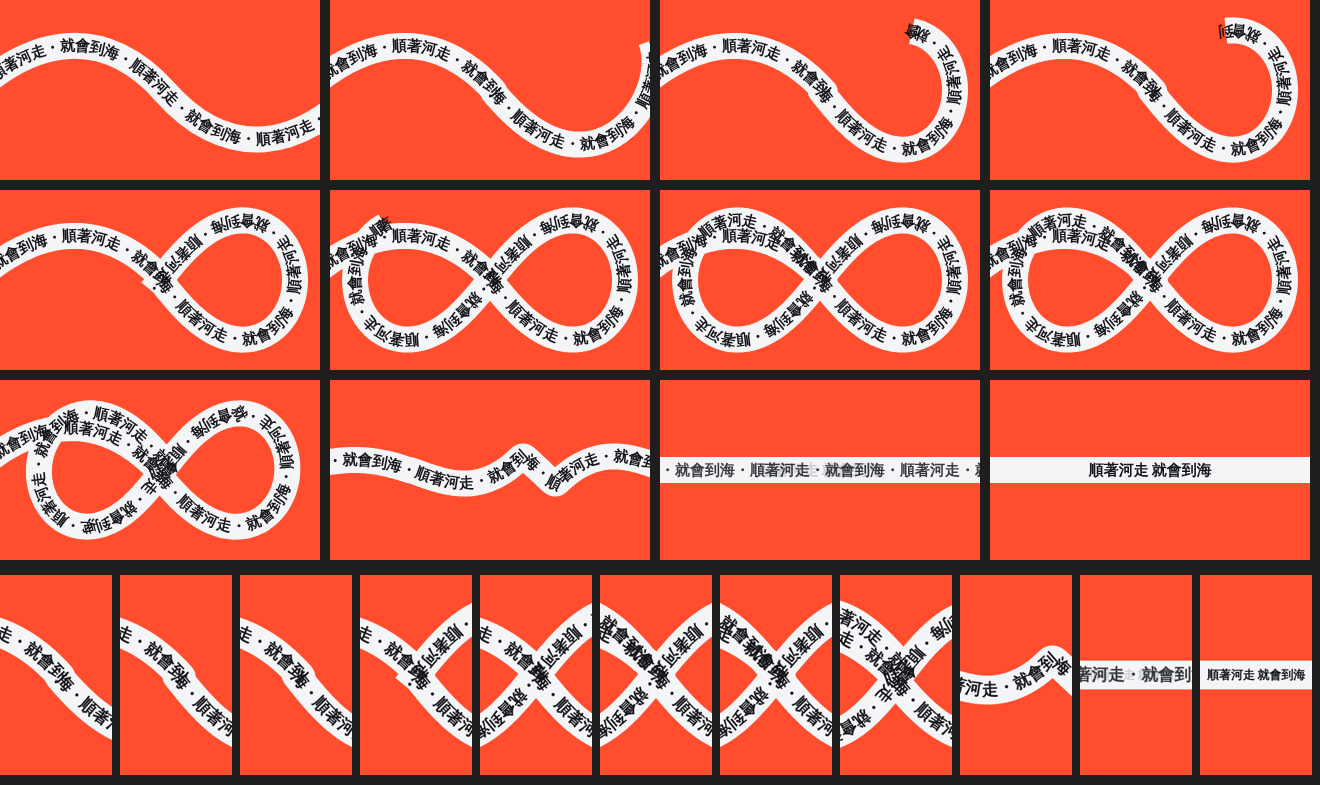
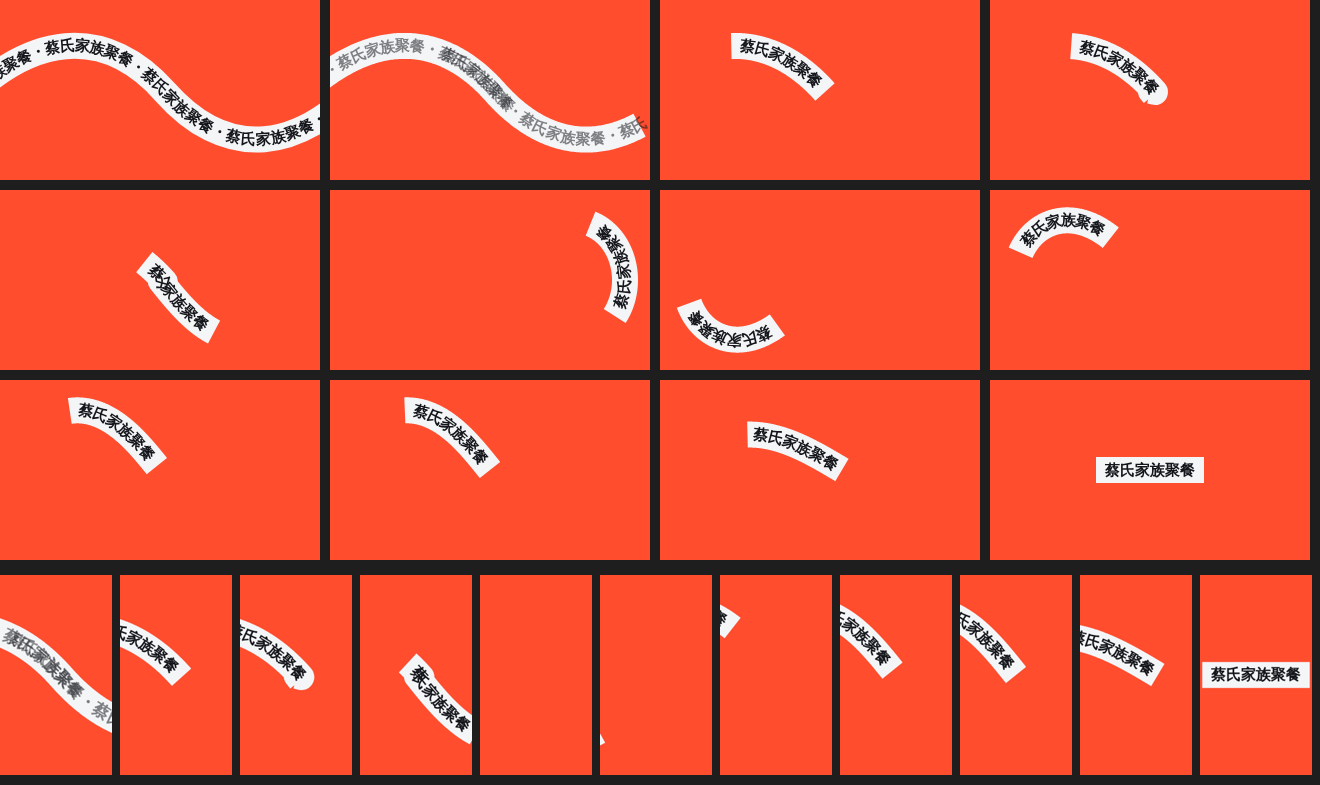
彎道收尾：字句長的白帶沿 ∞ 路線跑一圈，最後轉平成橫條
Claude-Session: https://claude.ai/code/session_019agY7otd5feanTroznJ55n

diff --git a/src/engine/kinetic/fx/flow.ts b/src/engine/kinetic/fx/flow.ts
@@ -51,14 +51,6 @@ function ribAtIn(pts: RibPt[], d: number): RibPt {
   return { x: a.x + (b.x - a.x) * f, y: a.y + (b.y - a.y) * f, a: a.a + (b.a - a.a) * f, s: d };
 }
 
-/** 把一串點重新取樣成 n 個、沿路徑等距（0～1 對應整條帶子），拿來在兩條形狀之間內插 */
-function resample(pts: RibPt[], n: number): { x: number; y: number }[] {
-  const total = pts[pts.length - 1]!.s;
-  return Array.from({ length: n }, (_, i) => {
-    const p = ribAtIn(pts, (total * i) / (n - 1));
-    return { x: p.x, y: p.y };
-  });
-}
 /** 一串 xy 點 → 帶有累計長度與切線角的路徑點 */
 function toRibPts(xy: { x: number; y: number }[]): RibPt[] {
   let acc = 0;
@@ -74,12 +66,8 @@ const RIB_N = 240;
 /** 彎道收尾的 ∞ 半寬 */
 const INF_A = 135;
 let lemPts: RibPt[] | null = null;
-/**
- * 彎道收尾時帶子的頭走的路線（∞）：從中間的交叉點往右下出發（接著 S 形帶子中間的方向），
- * 繞右圈 → 回到中間交叉 → 繞左圈 → 回到中間
- */
-function lemniscate(): RibPt[] {
-  if (lemPts) return lemPts;
+/** ∞ 路線：從中間的交叉點往右下出發（接著 S 形帶子中間的方向），繞右圈 → 回到中間交叉 → 繞左圈 → 回到中間 */
+function lemniscateXY(): { x: number; y: number }[] {
   const xy: { x: number; y: number }[] = [];
   const N = 720;
   for (let i = 0; i <= N; i++) {
@@ -90,8 +78,15 @@ function lemniscate(): RibPt[] {
       y: 90 + (INF_A * 1.25 * Math.sin(th) * Math.cos(th)) / d,
     });
   }
-  lemPts = toRibPts(xy);
-  return lemPts;
+  return xy;
+}
+/** 彎道收尾的路線：S 形帶子的前半段（到畫面正中間）＋ ∞ 一圈；回傳路線與「畫面正中間」在路線上的位置 */
+function route(): { pts: RibPt[]; mid: number } {
+  if (!lemPts) {
+    const sp = ribSamples();
+    lemPts = toRibPts([...sp.slice(0, 121).map((p) => ({ x: p.x, y: p.y })), ...lemniscateXY().slice(1)]);
+  }
+  return { pts: lemPts, mid: ribSamples()[120]!.s };
 }
 /** 路線上 [a, b] 那一段，取 n 個點 */
 function along(pts: RibPt[], a: number, b: number, n = RIB_N): { x: number; y: number }[] {
@@ -100,30 +95,24 @@ function along(pts: RibPt[], a: number, b: number, n = RIB_N): { x: number; y: n
     return { x: p.x, y: p.y };
   });
 }
-/** 拉直後的橫條：畫面正中間、兩端超出畫面 */
-function lineXY(): { x: number; y: number }[] {
-  return Array.from({ length: RIB_N }, (_, i) => ({ x: -60 + (450 * i) / (RIB_N - 1), y: 90 }));
-}
 const mixXY = (a: { x: number; y: number }[], b: { x: number; y: number }[], f: number) =>
   a.map((p, i) => ({ x: p.x + (b[i]!.x - p.x) * f, y: p.y + (b[i]!.y - p.y) * f }));
 /**
- * 停在最後畫面（q 0→1）：S 形帶子的前半段不動，後半段從畫面中間轉進 ∞ 的路線，
- * 帶子的頭沿著 ∞ 繞一大圈（右圈、左圈）回到中間；最後整條往兩邊一拉，拉直成畫面中間的橫條
+ * 停在最後畫面（q 0→1）：長長的 S 形帶子兩端往中間收，縮成跟字句一樣長的一條白帶；
+ * 這條白帶沿著 ∞ 的路線跑一圈（繞右圈、交叉、繞左圈）回到中間，最後轉平成畫面正中間的橫條。
+ * L＝白帶長度（字句長度＋左右留白）
  */
-function ribbonAt(q: number): RibPt[] {
+function ribbonAt(q: number, L: number): RibPt[] {
   const sp = ribSamples();
-  const mid = sp[120]!.s; // S 形兩段曲線的接點＝畫面正中間
   const sTotal = sp[sp.length - 1]!.s;
-  const lem = lemniscate();
-  const lemLen = lem[lem.length - 1]!.s;
-  const L2 = sTotal - mid;
-  const head = L2 + (lemLen - L2) * E.io(clamp((q - 0.1) / 0.5));
-  const first = along(sp, 0, mid, 100);
-  const bend = E.io(clamp(q / 0.1));
-  const rest =
-    bend < 1 ? mixXY(along(sp, mid, sTotal, 120), along(lem, 0, L2, 120), bend) : along(lem, 0, head, 120);
-  const whole = resample(toRibPts([...first, ...rest]), RIB_N);
-  return toRibPts(mixXY(whole, lineXY(), E.io(clamp((q - 0.64) / 0.26))));
+  const { pts, mid } = route();
+  const lemLen = pts[pts.length - 1]!.s - mid;
+  const shrink = E.io(clamp(q / 0.15));
+  if (shrink < 1) return toRibPts(along(sp, (mid - L) * shrink, sTotal + (mid - sTotal) * shrink));
+  const head = mid + lemLen * E.io(clamp((q - 0.15) / 0.68));
+  const snake = along(pts, head - L, head);
+  const flat = Array.from({ length: RIB_N }, (_, i) => ({ x: 160 - L / 2 + (L * i) / (RIB_N - 1), y: 90 }));
+  return toRibPts(mixXY(snake, flat, E.io(clamp((q - 0.85) / 0.15))));
 }
 
 export const FX_FLOW: KineticDef[] = [
@@ -311,14 +300,21 @@ export const FX_FLOW: KineticDef[] = [
       const ox = (W - 320 * k) / 2;
       const oy = (H - 180 * k) / 2;
       const vw = W / k; // 畫面看得到的寬度（直式畫面只看得到 320 的一小段）
-      const sc = 1;
-      const pts = q > 0 ? ribbonAt(q) : ribSamples();
+      // 收尾的那條白帶：整句字（每個詞空一格）＋左右留白；字太長就縮小，最後要放得進畫面
+      const sentence = cs(s.words.join(' '));
+      g.font = fontOf(s, 15, 900);
+      const sw0 = g.measureText(sentence.join('')).width;
+      const size = Math.min(15, (15 * vw * 0.8) / Math.max(sw0, 1));
+      const sw = (sw0 * size) / 15;
+      const L = sw + size * 1.2;
+      const pts = q > 0 ? ribbonAt(q, L) : ribSamples();
+      // 白帶粗細：平常 26；縮成字句長的白帶後跟著字的大小
+      const thick = 26 + (size * (26 / 15) - 26) * clamp(q / 0.15);
       g.save();
       g.translate(ox, oy);
       g.scale(k, k);
-      // 一條寬的強調色帶子
       g.strokeStyle = s.hi;
-      g.lineWidth = 26 * sc;
+      g.lineWidth = thick;
       g.lineCap = 'butt';
       g.lineJoin = 'round';
       g.beginPath();
@@ -330,7 +326,7 @@ export const FX_FLOW: KineticDef[] = [
         for (const [, , x1, y1, x2, y2, x3, y3] of RIB) g.bezierCurveTo(x1, y1, x2, y2, x3, y3);
       }
       g.stroke();
-      // 字沿著帶子排（字高 15、粗體），整串字以 24／秒的速度流過去；繞的時候照樣繼續跑
+      // 字沿著帶子排（字高 15、粗體），整串字以 24／秒的速度流過去
       const unit = s.words.join('・') + '・';
       g.font = fontOf(s, 15, 900);
       g.fillStyle = s.hifg;
@@ -340,8 +336,8 @@ export const FX_FLOW: KineticDef[] = [
       const reps = Math.ceil(64 / wlen(unit)) + 2;
       const chars = cs(unit.repeat(reps));
       const total = pts[pts.length - 1]!.s;
-      const place = (str: string[], start: number, alpha: number, size: number) => {
-        g.font = fontOf(s, size, 900);
+      const place = (str: string[], start: number, alpha: number, px: number) => {
+        g.font = fontOf(s, px, 900);
         let pos = start;
         for (const ch of str) {
           const w = g.measureText(ch).width;
@@ -358,20 +354,10 @@ export const FX_FLOW: KineticDef[] = [
           pos += w;
         }
       };
-      // 帶子繞的時候字貼在帶子上（不另外流動）；拉直之後（q 0.88～1）整句完整的字淡入、原本的字淡出
-      const fin = clamp((q - 0.88) / 0.12);
-      if (fin < 1) place(chars, q > 0 ? 0 : -((t * 24) % unitLen), 1 - fin, 15 * sc);
-      if (fin > 0) {
-        const sentence = cs(s.words.join(' '));
-        g.font = fontOf(s, 15, 900);
-        const sw = g.measureText(sentence.join('')).width;
-        const size = Math.min(15, (15 * vw * 0.88) / Math.max(sw, 1));
-        g.font = fontOf(s, size, 900);
-        const w2 = g.measureText(sentence.join('')).width;
-        // 橫條上看得到的正中間（x＝160）離起點多遠
-        const mid = pts.find((p) => p.x >= 160) ?? pts[pts.length - 1]!;
-        place(sentence, mid.s - w2 / 2, fin, size);
-      }
+      // 帶子縮短的時候（q 0～0.15）流動的字淡出、整句字淡入；之後整句字貼在白帶正中間跟著跑
+      const fin = clamp(q / 0.15);
+      if (fin < 1) place(chars, -((t * 24) % unitLen), 1 - fin, 15);
+      if (fin > 0) place(sentence, (total - sw) / 2, fin, size);
       g.restore();
     },
   },

diff --git a/docs/PROGRESS.md b/docs/PROGRESS.md
@@ -89,6 +89,10 @@
 - 2026-11-11 找到新字體來源 max32002/pop-gothic（大波浪圓體，含注音）→ 已加入手寫可愛包。問「能不能直接下載到我的 files 下載資料夾」→ 答：網頁在 iPhone 不能自動寫進「檔案」App 資料夾；官方字體存在瀏覽器裡，自己的字體用「匯入字體檔」從檔案 App 選
 
 ## 日誌（最新在最上面）
+- 2026-11-26 彎道收尾：一條字句長的白帶沿 ∞ 路線跑（Opus，claude/zen-tesla-v3brj5）
+  - 做了什麼：使用者說是「一條白帶繞著路線走」，不是形成 ∞ 圖案，白帶長度＝字句長度、不會累加。改成：長的 S 形帶子兩端往中間收，縮成跟整句字一樣長的白帶（字跟著淡入）；白帶沿 ∞ 路線（從畫面中間往右下 → 右圈 → 交叉 → 左圈 → 回中間）跑一圈，最後轉平成畫面正中間的短橫條，整句字在上面。白帶粗細跟字的大小走；字太長自動縮小到放得進畫面
+  - 動了哪些檔：`src/engine/kinetic/fx/flow.ts`、`docs/screenshots/feedback-17/path-ending.png`
+  - 驗證：✅ 單元測試、`npm run check`；分鏡圖確認
 - 2026-11-26 彎道收尾改成「帶子沿 ∞ 路線繞行」（Opus，claude/zen-tesla-v3brj5）
   - 做了什麼：使用者錄影畫了路線（左圈 → 中間交叉 → 右圈 → 交叉 → 最後橫線），說的是帶子「沿路線繞行」，不是帶子原地變成兩個圈、字繞著自己轉。改成：S 形帶子前半段不動，後半段從畫面中間（S 兩段的接點）轉進 ∞ 的路線，帶子的頭沿著 ∞ 繞右圈、交叉、繞左圈回到中間（像一筆畫畫出 ∞），字貼在帶子上不另外流動；最後整條往兩邊一拉、拉直成畫面中間的橫條，整句字淡入。`lemniscate()`（從中心往右下出發，方向接 S 的中段）、`along()`、`ribbonAt(q)`；收尾 2.4 秒（`settleLen`），停點 3.2 秒
   - 動了哪些檔：`src/engine/kinetic/fx/flow.ts`、`docs/screenshots/feedback-17/path-ending.png`（橫式 12 格、直式 11 格的分鏡）
